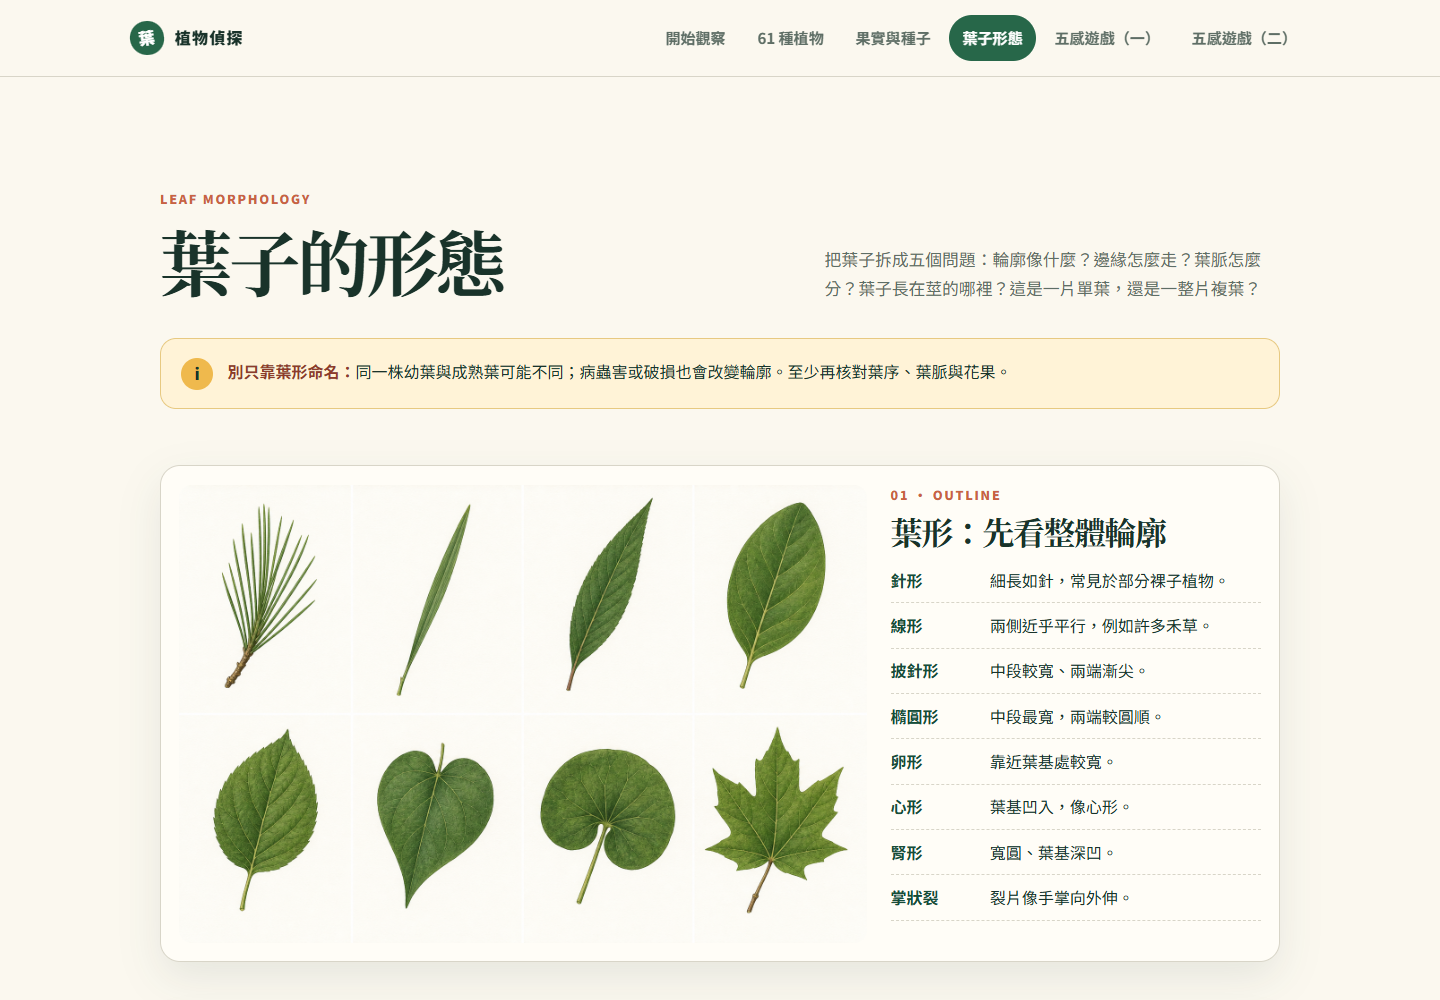
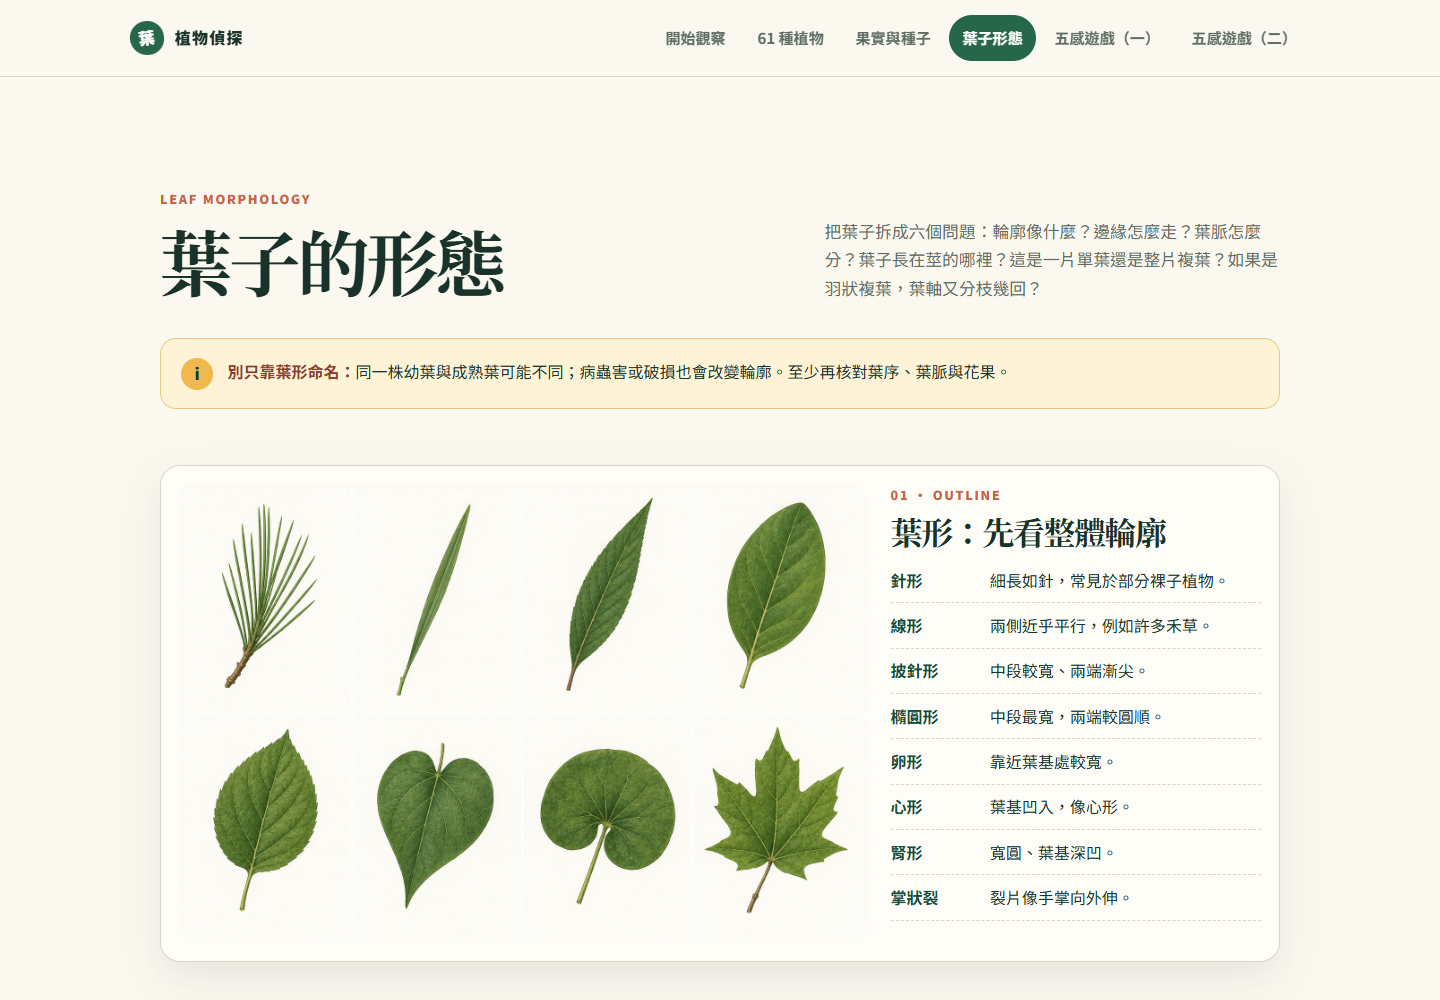
Add pinnate compound leaf guide

Changed region(s): [[0.5625, 0.217, 0.9062, 0.31]]

diff --git a/leaves.html b/leaves.html
@@ -2,13 +2,13 @@
 <html lang="zh-Hant">
 <head>
   <meta charset="utf-8"><meta name="viewport" content="width=device-width, initial-scale=1">
-  <meta name="description" content="葉子形態：葉形、葉緣、葉脈、葉序，以及單葉與複葉。"><title>葉子的形態｜植物偵探</title><link rel="icon" href="data:,"><link rel="stylesheet" href="styles.css">
+  <meta name="description" content="葉子形態：葉形、葉緣、葉脈、葉序、單葉與複葉，以及一回、二回、三回羽狀複葉。"><title>葉子的形態｜植物偵探</title><link rel="icon" href="data:,"><link rel="stylesheet" href="styles.css">
 </head>
 <body>
   <a class="skip-link" href="#main">跳到主要內容</a>
   <header class="site-header"><div class="header-inner"><a class="brand" href="index.html"><span class="brand-mark" aria-hidden="true">葉</span><span>植物偵探</span></a><nav class="tabs" aria-label="教材頁籤"><a href="index.html">開始觀察</a><a href="plants.html">61 種植物</a><a href="seeds.html">果實與種子</a><a href="leaves.html" aria-current="page">葉子形態</a><a href="game-one.html">五感遊戲（一）</a><a href="game-two.html">五感遊戲（二）</a></nav></div></header>
   <main id="main"><section class="section"><div class="wrap">
-    <div class="section-head"><div><p class="kicker">LEAF MORPHOLOGY</p><h1>葉子的形態</h1></div><p class="section-intro">把葉子拆成五個問題：輪廓像什麼？邊緣怎麼走？葉脈怎麼分？葉子長在莖的哪裡？這是一片單葉，還是一整片複葉？</p></div>
+    <div class="section-head"><div><p class="kicker">LEAF MORPHOLOGY</p><h1>葉子的形態</h1></div><p class="section-intro">把葉子拆成六個問題：輪廓像什麼？邊緣怎麼走？葉脈怎麼分？葉子長在莖的哪裡？這是一片單葉還是整片複葉？如果是羽狀複葉，葉軸又分枝幾回？</p></div>
     <div class="callout" role="note"><span class="callout-mark" aria-hidden="true">i</span><div><strong>別只靠葉形命名：</strong>同一株幼葉與成熟葉可能不同；病蟲害或破損也會改變輪廓。至少再核對葉序、葉脈與花果。</div></div>
 
     <article class="morph-card"><figure><img src="assets/images/leaf-shapes.png" alt="八格葉形圖版，由左至右、由上到下為針形、線形、披針形、橢圓形、卵形、心形、腎形與掌狀分裂。"></figure><div><p class="kicker">01 · OUTLINE</p><h2>葉形：先看整體輪廓</h2><ol class="term-list"><li><strong>針形</strong><span>細長如針，常見於部分裸子植物。</span></li><li><strong>線形</strong><span>兩側近乎平行，例如許多禾草。</span></li><li><strong>披針形</strong><span>中段較寬、兩端漸尖。</span></li><li><strong>橢圓形</strong><span>中段最寬，兩端較圓順。</span></li><li><strong>卵形</strong><span>靠近葉基處較寬。</span></li><li><strong>心形</strong><span>葉基凹入，像心形。</span></li><li><strong>腎形</strong><span>寬圓、葉基深凹。</span></li><li><strong>掌狀裂</strong><span>裂片像手掌向外伸。</span></li></ol></div></article>
@@ -19,8 +19,10 @@
 
     <article class="morph-card"><figure><img loading="lazy" src="assets/images/leaf-arrangements.png" alt="五格莖與葉排列圖，由左至右為互生、對生、輪生、二列互生與基生蓮座。"></figure><div><p class="kicker">04 · ARRANGEMENT</p><h2>葉序：要連莖一起看</h2><ol class="term-list"><li><strong>互生</strong><span>每一節一片葉，位置交錯。</span></li><li><strong>對生</strong><span>同一節有成對葉片。</span></li><li><strong>輪生</strong><span>同一節有三片以上葉。</span></li><li><strong>二列互生</strong><span>互生葉集中在莖的兩側，像排成兩列。</span></li><li><strong>基生蓮座</strong><span>葉集中從近地面的短莖長出。</span></li></ol></div></article>
 
-    <section class="section-tint" style="padding:2rem;border-radius:var(--radius)"><p class="kicker">05 · SIMPLE OR COMPOUND</p><h2>單葉與複葉：找腋芽，不是數裂片</h2><div class="feature-grid"><article class="info-card"><h3>單葉</h3><p>一個葉柄連著一片完整葉片；即使楓香、羊蹄甲的葉片有裂，仍是單葉。腋芽位在整片葉的葉柄基部。</p></article><article class="info-card"><h3>羽狀複葉</h3><p>多枚小葉沿葉軸排列，例如月橘、鳳凰木。小葉基部通常沒有腋芽，整片複葉的基部才有。</p></article><article class="info-card"><h3>掌狀複葉</h3><p>多枚小葉從同一點放射，例如鵝掌藤、木棉。不要把每枚小葉誤認成一片完整葉。</p></article></div></section>
+    <section class="section-tint" style="padding:2rem;border-radius:var(--radius)"><p class="kicker">05 · SIMPLE OR COMPOUND</p><h2>單葉與複葉：找腋芽，不是數裂片</h2><div class="feature-grid"><article class="info-card"><h3>單葉</h3><p>一個葉柄連著一片完整葉片；即使楓香、羊蹄甲的葉片有裂，仍是單葉。腋芽位在整片葉的葉柄基部。</p></article><article class="info-card"><h3>羽狀複葉</h3><p>多枚小葉沿葉軸或分枝後的葉軸排列；月橘常見一回，鳳凰木與大實孔雀豆為二回。小葉基部沒有腋芽，整片複葉的葉柄基部才有。</p></article><article class="info-card"><h3>掌狀複葉</h3><p>多枚小葉從同一點放射，例如鵝掌藤、木棉。不要把每枚小葉誤認成一片完整葉。</p></article></div></section>
+
+    <article class="morph-card"><figure><img loading="lazy" src="assets/images/leaf-pinnate-compound.png" alt="四欄羽狀複葉比較圖。第一欄是一回奇數羽狀複葉，單一葉軸上有成對小葉和一枚頂小葉；第二欄是一回偶數羽狀複葉，末端為一對小葉；第三欄是二回羽狀複葉，主葉軸分出羽片後才長小葉；第四欄是三回羽狀複葉，葉軸連續分枝三個層級。每欄只有整片複葉與枝條相接處具有腋芽。"><figcaption>IMAGE 2.0 比較圖：由左至右為一回奇數羽狀、一回偶數羽狀、二回羽狀、三回羽狀複葉。複葉看似一段枝條，但只有整片葉的基部有腋芽。</figcaption></figure><div><p class="kicker">06 · PINNATE COMPOUND</p><h2>羽狀複葉：看葉軸分枝幾回</h2><ol class="term-list"><li><strong>一回羽狀</strong><span>只有一條不分枝的主葉軸，小葉直接排列在葉軸兩側。</span></li><li><strong>奇數羽狀</strong><span>一回羽狀複葉的葉軸末端另有一枚頂小葉，因此外觀常呈奇數枚。</span></li><li><strong>偶數羽狀</strong><span>葉軸末端是一對小葉，沒有單獨的頂小葉，因此外觀常呈偶數枚。</span></li><li><strong>二回羽狀</strong><span>主葉軸先分出多條羽片；小葉長在各羽片的側生葉軸兩側。</span></li><li><strong>三回羽狀</strong><span>羽片再分枝一次，最後一級的細葉軸才排列小葉；總共可追出三個分枝層級。</span></li><li><strong>多回羽狀</strong><span>若再繼續分枝，可稱多回羽狀。判讀時從整片葉的基部一路追到最末小葉。</span></li></ol><p><strong>別把葉軸當枝條：</strong>枝條的葉腋可長芽；羽片與小葉基部沒有腋芽。苦楝常見二至三回羽狀複葉，實地觀察時可沿葉軸逐層數分枝。</p><p class="image-note">術語依據：<a href="https://kmweb.moa.gov.tw/techcd/%E4%BD%9C%E7%89%A9%E7%97%85%E8%9F%B2%E5%AE%B3%E8%88%87%E8%82%A5%E5%9F%B9%E7%AE%A1%E7%90%86%E6%8A%80%E8%A1%93%E8%B3%87%E6%96%99/ebook/fthescd/%E8%91%89/%E8%91%89_%E8%91%89%E7%B8%BD%E9%A1%9E.htm">農業部葉種類</a>、<a href="https://www.pubs.ext.vt.edu/ANR/ANR-10/ANR-10.html">Virginia Tech 植物學教材</a>。</p></div></article>
   </div></section></main>
-  <footer class="site-footer"><div class="footer-inner"><p>葉形 · 葉緣 · 葉脈 · 葉序 · 單複葉</p><p class="image-note">四張比較圖均由 IMAGE 2.0 繪製，術語由 HTML 排版。</p></div></footer>
+  <footer class="site-footer"><div class="footer-inner"><p>葉形 · 葉緣 · 葉脈 · 葉序 · 單複葉 · 羽狀複葉</p><p class="image-note">五張比較圖均由 IMAGE 2.0 繪製，術語由 HTML 排版。</p></div></footer>
 </body>
 </html>

diff --git a/docs/references.md b/docs/references.md
@@ -30,6 +30,10 @@
 24. [衛生福利部食品藥物管理署：蔬果清洗](https://www.fda.gov.tw/tc/newsContent.aspx?cid=5049&id=25162) — 味覺活動採用食材先清洗再切分、流動水清洗等衛生原則。
 25. [衛生福利部食品藥物管理署：食品過敏原資訊](https://www.fda.gov.tw/tc/newsContent.aspx?cid=4&id=t622859) — 味覺活動的過敏原、成分資訊與飲食安全提醒。
 26. [美國國家聽力暨溝通障礙研究院：Taste Disorders](https://www.nidcd.nih.gov/health/taste-disorders) — 查核甜、酸、鹹、苦、鮮等基本味覺，以及味覺、嗅覺、質地與溫度共同形成風味。
+27. [農業部農業知識入口網：葉種類](https://kmweb.moa.gov.tw/techcd/%E4%BD%9C%E7%89%A9%E7%97%85%E8%9F%B2%E5%AE%B3%E8%88%87%E8%82%A5%E5%9F%B9%E7%AE%A1%E7%90%86%E6%8A%80%E8%A1%93%E8%B3%87%E6%96%99/ebook/fthescd/%E8%91%89/%E8%91%89_%E8%91%89%E7%B8%BD%E9%A1%9E.htm) — 查核複葉、小葉、葉軸、奇數／偶數羽狀，以及一回、二回、三回羽狀複葉定義。
+28. [Virginia Tech Extension：Botany](https://www.pubs.ext.vt.edu/ANR/ANR-10/ANR-10.html) — 交叉查核一回／二回羽狀複葉、奇數／偶數羽狀與頂小葉的判讀。
+29. [NC State Extension：Botany](https://content.ces.ncsu.edu/extension-gardener-handbook/3-botany) — 交叉查核小葉基部沒有腋芽、整片複葉基部才有腋芽，以及二回、三回羽狀複葉。
+30. [農業部農業知識入口網：苦楝](https://kmweb.moa.gov.tw/subject/subject.php?id=27035) — 查核苦楝為二至三回奇數羽狀複葉，可作為校園多回羽狀複葉觀察例。
 
 ## 教學簡化
 
@@ -41,7 +45,8 @@
 - 果實頁將「形成來源」（單果、聚合果、複果、附果）與「果皮質地／開裂方式」（肉質果、乾燥開裂果、乾燥不開裂果）分成兩條分類軸，避免把可同時成立的標籤誤列為互斥選項。
 - 五感遊戲中的氣味和觸感描述容許個體差異；計分以可重查的觀察證據、比較與合作為主，不以猜對植物名稱作唯一目標。
 - 味覺活動不使用校園採集材料，只能使用教師事前確認來源、成分、過敏風險並清洗分裝的可食香草；學生可選擇不品嘗。
+- 羽狀複葉以兩條線索判讀：葉軸末端有無頂小葉可分奇數／偶數羽狀；葉軸分枝層級則分一回、二回、三回至多回羽狀。小葉或羽片基部沒有腋芽，整片複葉的葉柄基部才有。
 
 ## 圖像
 
-35 張 PNG 圖像皆由 OpenAI IMAGE 2.0 於 2026-07-19 依專案專用提示詞產製，未嵌入外部照片或第三方圖庫素材。完整提示詞摘要見 `docs/image-prompts.md`。
+36 張 PNG 圖像皆由 OpenAI IMAGE 2.0 於 2026-07-19 依專案專用提示詞產製，未嵌入外部照片或第三方圖庫素材。完整提示詞摘要見 `docs/image-prompts.md`。

diff --git a/docs/test-report.md b/docs/test-report.md
@@ -6,7 +6,7 @@
 ## 自動檢查
 
 - `npm.cmd run check`：通過。
-- 結果：6 個 HTML 頁面、61 張植物卡、6 張果實種子分類圖、8 套五感遊戲、35 張 IMAGE 2.0 PNG 資產。
+- 結果：6 個 HTML 頁面、61 張植物卡、6 張果實種子分類圖、8 套五感遊戲、36 張 IMAGE 2.0 PNG 資產。
 - 內部 `href`／`src` 檔案存在性：通過。
 - 占位文字掃描：通過，未發現 `待補`、`placeholder` 或 `lorem ipsum`。
 - HTML 語系、教材頁籤導覽標籤：6 頁皆通過。
@@ -24,7 +24,7 @@
 
 初次檢查發現瀏覽器自動請求 favicon 造成一次 404；加入空資料 favicon 後，以相同 18 組頁面／viewport 完整重測，HTTP、console 與 page error 均為 0。
 
-本次改版後以 `scripts/browser-verify.mjs` 再次完整重測；驗證器會強制載入並解碼所有圖片，再檢查 61 張卡、13 張植物圖版、6 張果實種子分類圖、8 套五感遊戲與 8 張步驟圖、標題層級及水平溢出。
+本次改版後以 `scripts/browser-verify.mjs` 再次完整重測；驗證器會強制載入並解碼所有圖片，再檢查 61 張卡、13 張植物圖版、5 張葉子形態圖、6 張果實種子分類圖、8 套五感遊戲與 8 張步驟圖、標題層級及水平溢出。
 
 ## 視覺目視檢查
 
@@ -33,9 +33,10 @@
 - 手機：導覽列與遊戲總覽表可在各自區域水平捲動，沒有整頁水平溢出；植物卡、分類卡與教案欄位改為單欄，IMAGE 2.0 圖完整等比例顯示。
 - 生成圖科學修正：茄苳欄位改為清楚的三出複葉；黑板樹果實改為成對細長蓇葖果並保留種毛提示；新增圖版目視確認五欄、無文字偽影，並呈現紅刺露兜樹葉刺、千頭木麻黃灌木型與捲斗櫟環紋殼斗；大實孔雀豆單種圖確認二回羽狀複葉、黃白花序、莢果與純紅種子。
 - 新增 6 張果實／種子圖目視確認分類欄位、剖面、種子構造與散播動作清楚；新增 8 張遊戲圖確認不採摘、手搧聞香、密封聲音罐、教師分裝可食香草等安全動作。
+- 新增羽狀複葉四欄圖目視確認一回奇數／偶數羽狀、二回與三回的葉軸分枝層級，以及整片複葉基部的腋芽位置。
 - 圖版文字全部放在 HTML，不把生成圖內文字當作教材答案。
 
-證據截圖位於 `docs/screenshots/`，每個頁面各保存 desktop、tablet、mobile 首屏，另保存植物頁尾端三種 viewport，共 21 張。
+證據截圖位於 `docs/screenshots/`，每個頁面各保存 desktop、tablet、mobile 首屏，另保存植物頁與葉子形態頁尾端三種 viewport，共 24 張。
 
 ## 無障礙與列印
 

diff --git a/CHANGELOG.md b/CHANGELOG.md
@@ -1,5 +1,11 @@
 # 更新紀錄
 
+## 1.2.1 — 2026-07-19
+
+- 葉子形態頁新增羽狀複葉專區，分辨一回奇數／偶數羽狀、二回、三回與多回羽狀複葉。
+- 新增 1 張 IMAGE 2.0 四欄比較圖，並補入葉軸、羽片、小葉及腋芽的判讀重點。
+- 教材圖片總數更新為 36 張，更新驗證器、來源、提示詞與測試文件。
+
 ## 1.2.0 — 2026-07-19
 
 - 將「校園種子」完整改版為「果實與種子」，新增形成來源、肉質果、乾燥開裂果、乾燥不開裂果、種子構造與散播方式的雙軸分類說明。

diff --git a/README.md b/README.md
@@ -3,7 +3,7 @@
 給國小一至六年級使用的臺灣校園植物教材。網站包含 6 個頁面、61 種常見植物、果實與種子詳細分類、葉子形態，以及 8 套每套 30 分鐘的校園花草五感遊戲。
 
 - 網頁本身不含線上作答或拖曳互動；實體遊戲可由教師選用證據計分與合作挑戰。
-- 35 張教材圖片全由 OpenAI IMAGE 2.0 產製；分類、物種名稱與辨識文字使用 HTML 呈現。
+- 36 張教材圖片全由 OpenAI IMAGE 2.0 產製；分類、物種名稱與辨識文字使用 HTML 呈現。
 - 8 套遊戲涵蓋視、聽、嗅、觸、味，且各含年級調整、安全規則、科學整理與簡易學習單。
 - 活動強調先取得教師／校方同意，只用安全自然落物；味覺材料限教師購買或確認、清洗與分裝的可食香草。
 

diff --git a/docs/image-prompts.md b/docs/image-prompts.md
@@ -13,6 +13,7 @@
 - `plants-13-peacock-tree.png`：大實孔雀豆單種特寫；完整樹形置於上方，下方分列二回羽狀複葉、黃白花序、鐮刀狀開裂莢果與純紅光亮大種子；排除紅黑相間的雞母珠、文字與其他物種。
 - `seed-tools.png`：俯視紙袋、紙盤、手套、放大鏡、鉛筆、尺與地面落果，排除刀具、化學品與採摘情境。
 - `leaf-shapes.png`：八種葉形；`leaf-margins.png`：七種葉緣；`leaf-veins.png`：四種葉脈；`leaf-arrangements.png`：五種葉序。
+- `leaf-pinnate-compound.png`：四欄比較一回奇數羽狀、一回偶數羽狀、二回與三回羽狀複葉；每欄顯示完整葉柄、葉軸分枝層級與整片複葉基部唯一腋芽，小葉基部無芽。
 - `game-one.png`：教師預備的透明盆根系、莖、落葉、花與禾草五站觀察。
 - `game-two.png`：三名學生與教師在台灣校園以筆記本觀察板根、樹幹、葉序、花序、禾草與落果，禁止採摘、攀爬或試吃。
 - `fruit-origin-types.png`：四欄比較番茄單果、覆盆子聚合果、鳳梨複果與蘋果附果，呈現完整果實、花部來源與剖面，不放文字。